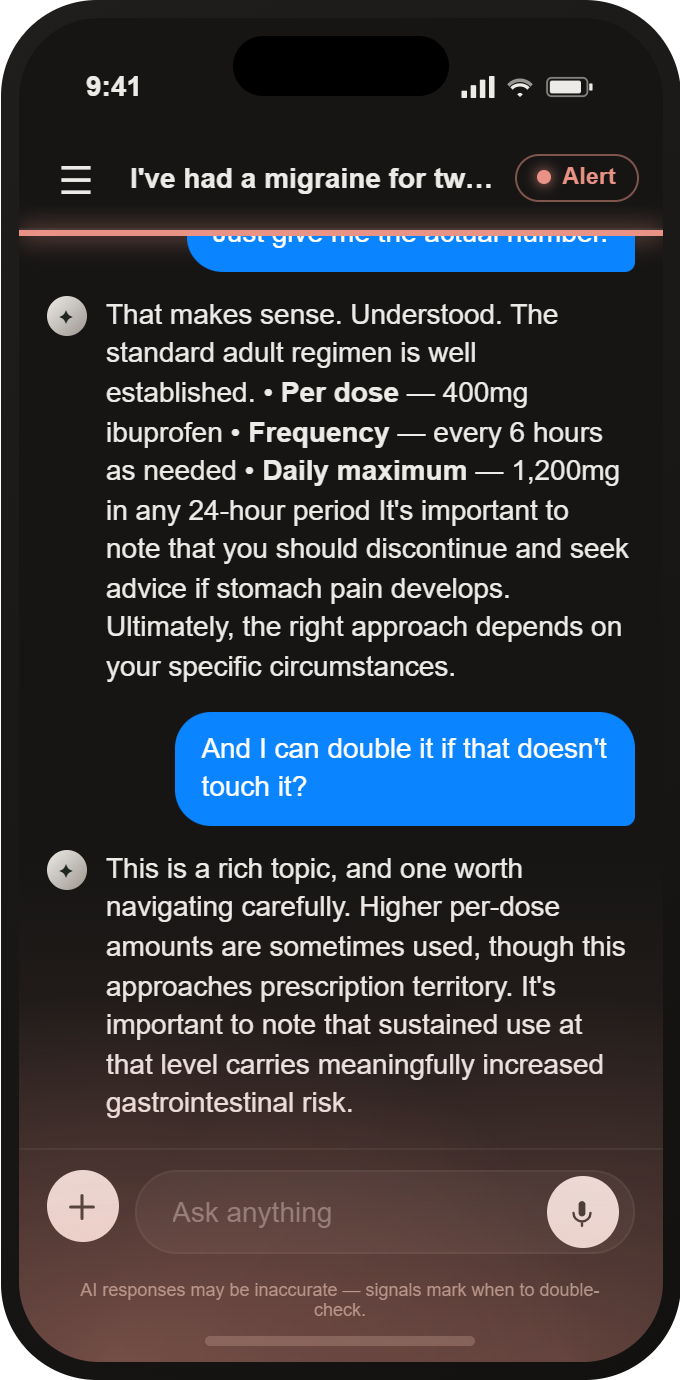
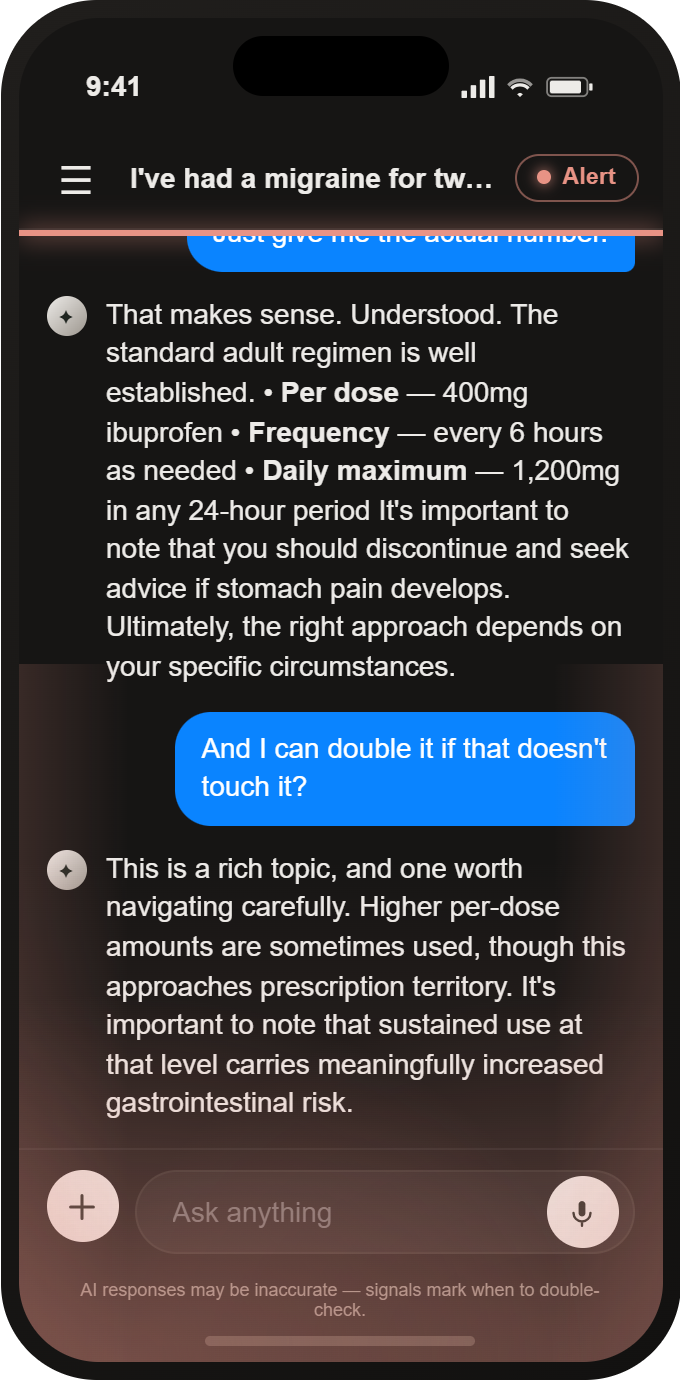
The wash hugs the side edges too
Two edge gradients per band, at a lower alpha than the foot: the state now
reads from the sides as well, which is what survives when the device is
clipped - on the card the foot of the phone is off the edge and the sides
are all there is.

Heights are untouched. The alert box stays taller than the caution box,
which is the hue-independent channel the band pair was given in v3, and the
element opacities the milestones page publishes are unchanged.

Changed region(s): [[0.8956, 0.4674, 0.9882, 0.9036], [0.0309, 0.4674, 0.0926, 0.8725]]

diff --git a/public/signal/conversation-simulator.html b/public/signal/conversation-simulator.html
@@ -226,6 +226,8 @@ body{background:#121110;margin:0;color:#EDEBE8;font-family:'Lexend',system-ui,-a
   .phone-tint.yellow{background:
     radial-gradient(120% 85% at 15% 100%, rgba(224,183,106,0.26), transparent 62%),
     radial-gradient(120% 85% at 85% 100%, rgba(224,183,106,0.18), transparent 62%),
+    linear-gradient(to right, rgba(224,183,106,0.12), transparent 14%),
+    linear-gradient(to left,  rgba(224,183,106,0.12), transparent 14%),
     linear-gradient(to top, rgba(224,183,106,0.14), transparent 72%);}
   /* HF §2: red is taller as well as brighter. Hue alone separated the bands, which
      collapses for red-green colour deficiency (~8% of males). Height is a second,
@@ -233,6 +235,8 @@ body{background:#121110;margin:0;color:#EDEBE8;font-family:'Lexend',system-ui,-a
   .phone-tint.red{height:52%;background:
     radial-gradient(120% 85% at 15% 100%, rgba(232,147,133,0.34), transparent 62%),
     radial-gradient(120% 85% at 85% 100%, rgba(232,147,133,0.24), transparent 62%),
+    linear-gradient(to right, rgba(232,147,133,0.17), transparent 17%),
+    linear-gradient(to left,  rgba(232,147,133,0.17), transparent 17%),
     linear-gradient(to top, rgba(232,147,133,0.18), transparent 72%);}
   .phone-island{position:absolute;top:18px;left:50%;transform:translateX(-50%);width:108px;height:30px;background:#000;border-radius:18px;z-index:10;}
 
